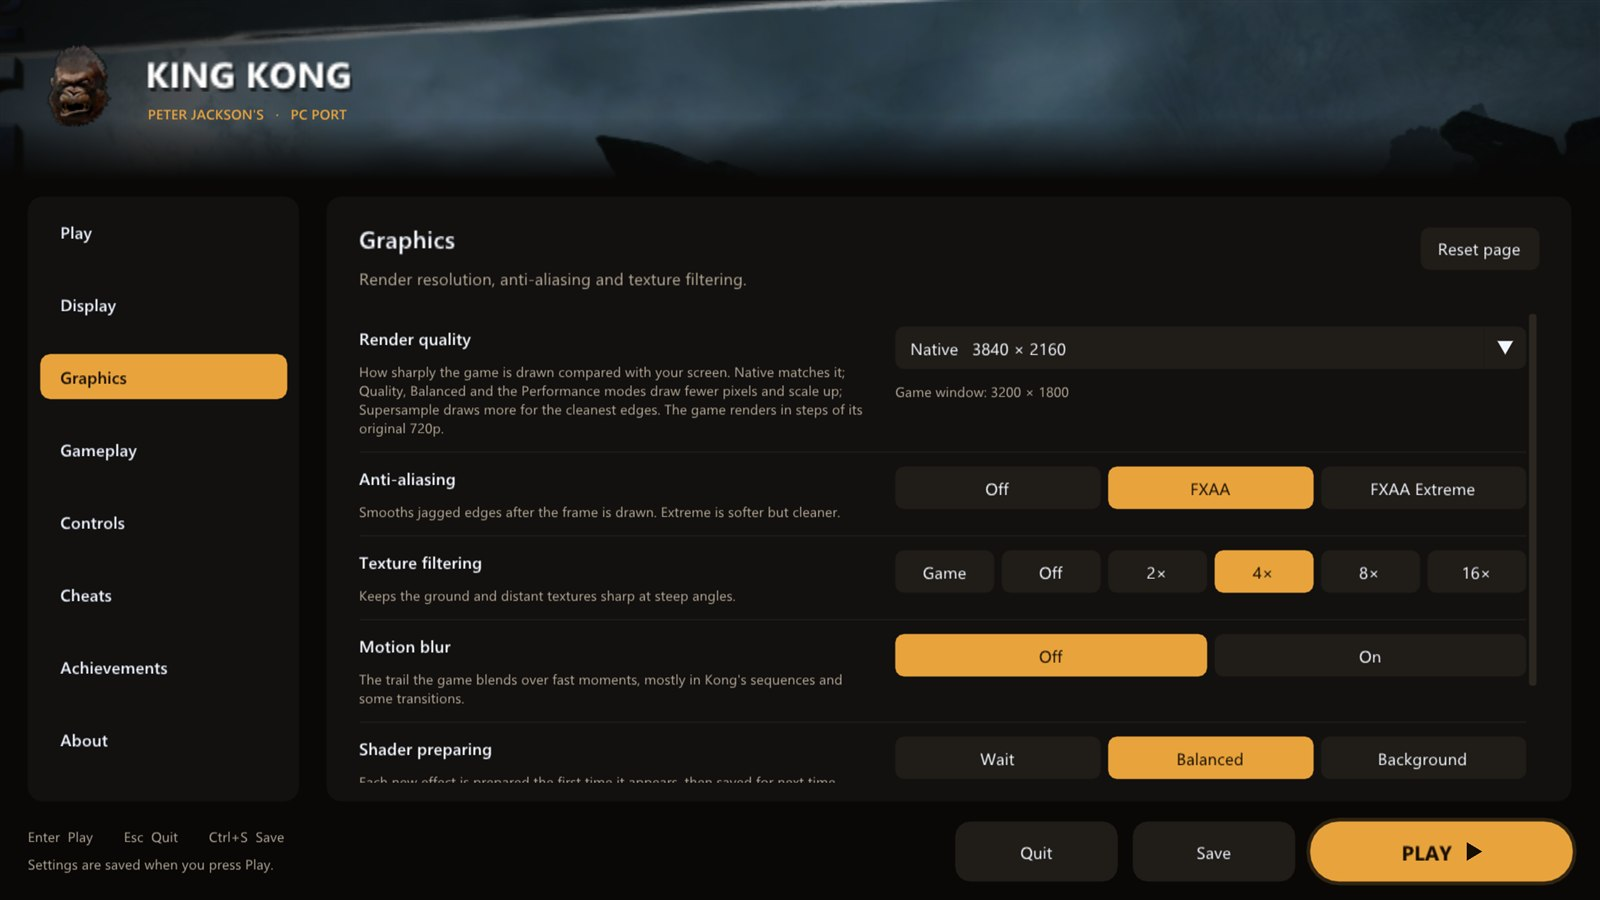
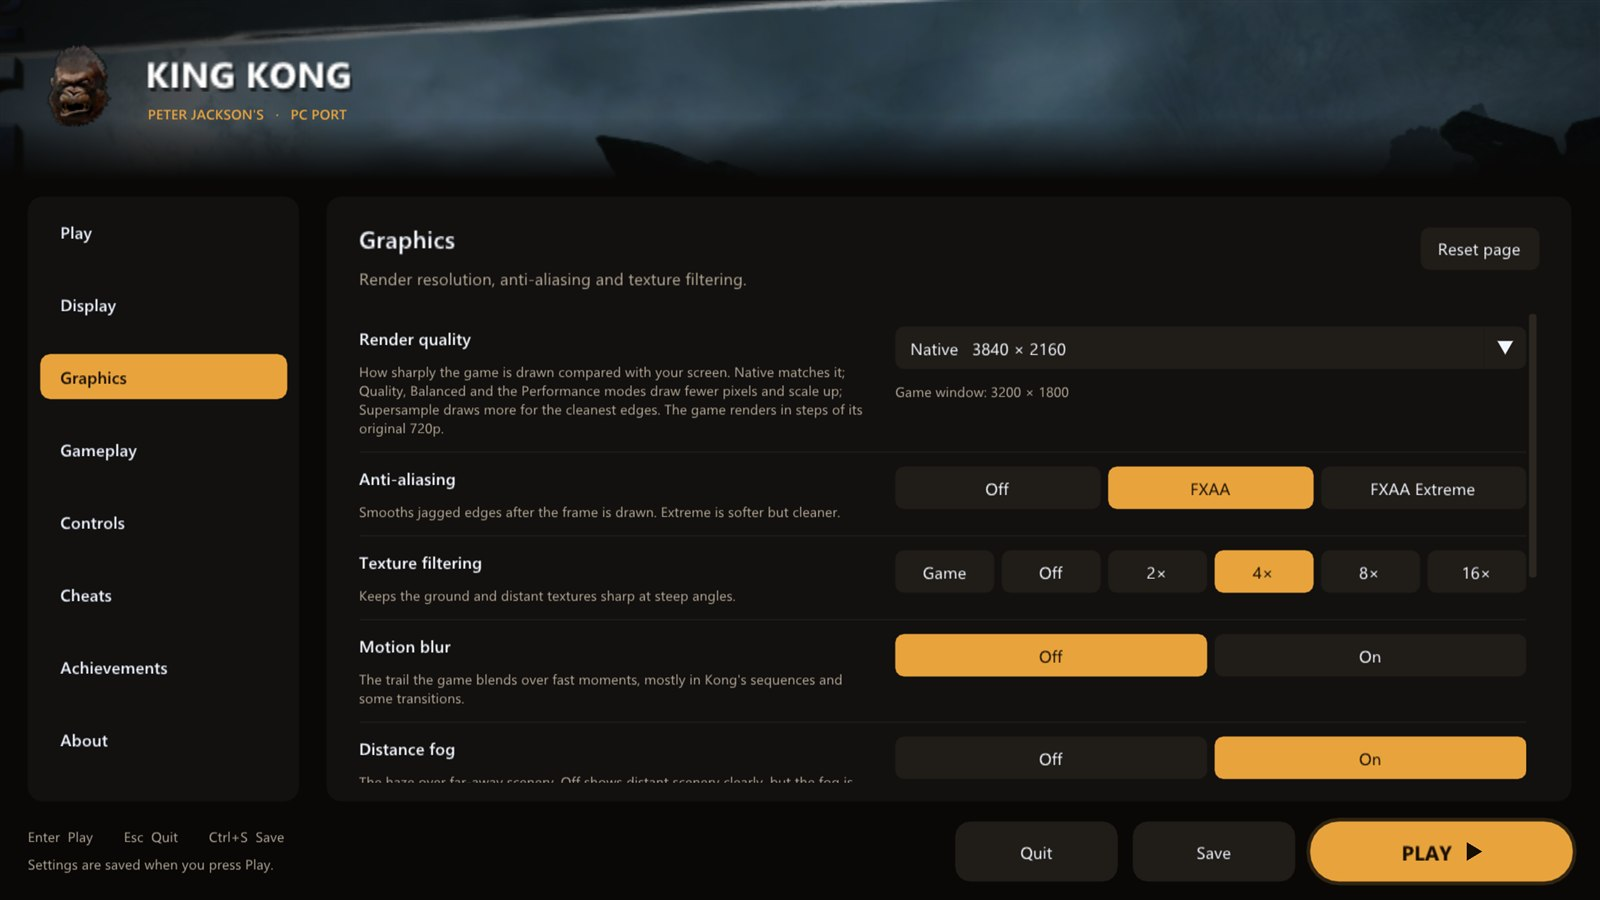
README and launcher screenshots: distance fog and ambient occlusion settings

diff --git a/README.md b/README.md
@@ -133,6 +133,8 @@ Everything is set up before the game starts. The launcher uses art from your own
 - **FXAA** (on by default) and **FXAA Extreme**
 - **Texture filtering** up to 16x (4x by default)
 - **Motion blur** on or off (off by default): Off removes the ghost trail the game blends over fast moments, mostly in Kong's sequences
+- **Distance fog** on or off (on by default): Off clears the haze over far scenery, though it can show empty backdrops at the edges of an area
+- **Ambient occlusion** (off by default): soft shading where surfaces meet, in corners and creases and under rocks, grass and people, at strength 1 (recommended), 2 or 3. About 1 ms a frame at 4K; NVIDIA and AMD graphics for now
 - **Shader preparing**: Balanced (default: new effects are prepared on many threads at once, with a moment's wait for them, so no long pauses), Wait (always drawn right, can pause) or Background (never waits)
 
 </td>
@@ -253,6 +255,8 @@ They switch on as soon as the game reaches its main menu, exactly as if you had 
 | Controls | Xbox 360 controller | any controller, remapping, keyboard and mouse |
 | Camera | game options | field of view, inverted axes, sensitivity, deadzone |
 | Motion blur | always on | on or off |
+| Distance fog | always on | on or off |
+| Ambient occlusion | none | optional, three strengths |
 | Startup logos | always play | play or skip |
 | Cheats | typed as codes each time | switches in the launcher |
 | Achievement pop-ups | console | Xbox 360 style, with your choice of sound |
